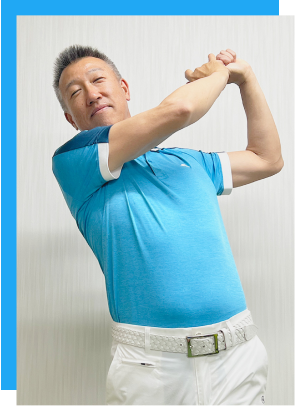
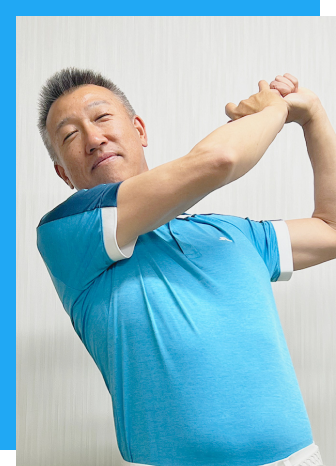
"画像差し替えとデザイン修正"

diff --git a/src/components/features/coaches/coaches.php b/src/components/features/coaches/coaches.php
@@ -6,8 +6,8 @@ include $uiPartsPath . '/header/headerImage/headerImage.php';
 
 <div class="my-20 mx-auto flex flex-col w-4/5 phone:hidden">
 
-  <div class="flex gap-6 mb-20">
-    <img src="<?php echo $absoluteUriPath . '/asset/coaches/coach1.png' ?>">
+  <div class="flex gap-6">
+    <img src="<?php echo $absoluteUriPath . '/asset/coaches/coach1.png' ?>" class="resize-none w-[330px] h-[480px]">
     <div class="flex flex-col items-end justify-between">
       <div class="flex flex-col gap-4">
         <div>
@@ -30,16 +30,24 @@ include $uiPartsPath . '/header/headerImage/headerImage.php';
         </div>
         <p class="whitespace-pre-line">現在50歳で、昨年よりPGAシニアツアーの出場を目指し、2年連続でQT決勝に進出している。
           リアルトーナメントプレーヤーであり、自分のベースを作るために新たな挑戦として、インドアゴルフスタジオのヘッドコーチに就任した。
-          埼玉県に戻り、自身の出身地である場所でゴルフの楽しさを皆様に伝えるために頑張ります。
+          埼玉県に戻り、自身の出身地である場所でゴルフの楽しさを皆様に伝えるために頑張ります。<br>
+          生年月日：1972年3月2日
+          出身地：埼玉県
+          身長：175cm
+          体重：75kg
+          血液型：A型
+          学歴：日本大学卒
+          ゴルフ歴：10歳〜
+          座右の銘：全ての練習は不可能を可能にする
         </p>
       </div>
-      <img src="<?php echo $absoluteUriPath . '/asset/coaches/twoSpuares.png'; ?>">
     </div>
 
   </div>
+  <img src="<?php echo $absoluteUriPath . '/asset/coaches/twoSpuares.png'; ?>" class="w-[100px] h-[100px] mr-0 ml-auto mb-20">
 
   <div class="flex flex-row-reverse gap-6 mb-10">
-    <img src="<?php echo $absoluteUriPath . '/asset/coaches/coach2.png' ?>">
+    <img src="<?php echo $absoluteUriPath . '/asset/coaches/coach2.png' ?>" class="resize-none w-[330px] h-[480px]">
 
     <div class="flex flex-col gap-4">
       <div>
@@ -65,10 +73,19 @@ include $uiPartsPath . '/header/headerImage/headerImage.php';
         現在レジェンズツアー参戦中。
         将来を見据え新たな挑戦としてインドアゴルフスタジオのヘッドコーチに就任。
         夫 小久保晃一プロの地元である埼玉県で二人三脚で皆様にゴルフの楽しさを伝える事を楽しみにしています。
+        <br>
+        生年月日：1968年8月8日
+        出身地：茨城県
+        身長：168cm
+        体重：58kg
+        血液型：AＢ型
+        学歴：日立女子高卒
+        ゴルフ歴：24歳〜
+        座右の銘：継続は力なり
       </p>
     </div>
   </div>
-  <img src="<?php echo $absoluteUriPath . '/asset/coaches/twoSquaresReverse.png' ?>" class="w-[100px] h-[100px]">
+  <img src="<?php echo $absoluteUriPath . '/asset/coaches/twoSquaresReverse.png' ?>" class=" ml-0 mr-auto w-[100px] h-[100px]">
 </div>
 
 <!-- phone -->
